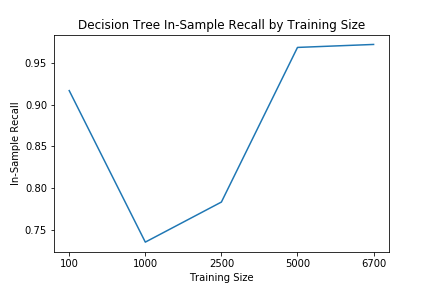
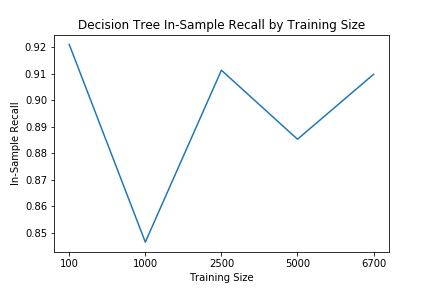
updated decision tree in churn.py to be more aggressive pruning to prevent overfitting

diff --git a/Supervised Learning/churn.py b/Supervised Learning/churn.py
@@ -106,9 +106,10 @@ i = 1
 for X, y in training_sets: 
     file.write('Training Set %s:\n' % (i))
     start_time = time.time()
-    dt = DecisionTreeClassifier(random_state=13)
-    parameters = {'max_depth':(5, 10, 13), 'criterion':('gini', 'entropy')} # Set parameters to be used in gridsearch
-    clf = GridSearchCV(dt, parameters) # perform gridsearch and cross validation
+    dt = DecisionTreeClassifier(criterion='entropy', random_state=13)
+    parameters = {'max_depth':(3, 5, 10), 'min_samples_split':(10,20)} # Set parameters to be used in gridsearch
+#    parameters = {'max_depth':[5], 'criterion':['entropy'], 'min_samples_split':[20]}
+    clf = GridSearchCV(dt, parameters, 'recall', cv=5) # perform gridsearch and cross validation
     clf.fit(X, y)
     end_time = time.time()
     training_time.append(end_time-start_time)
